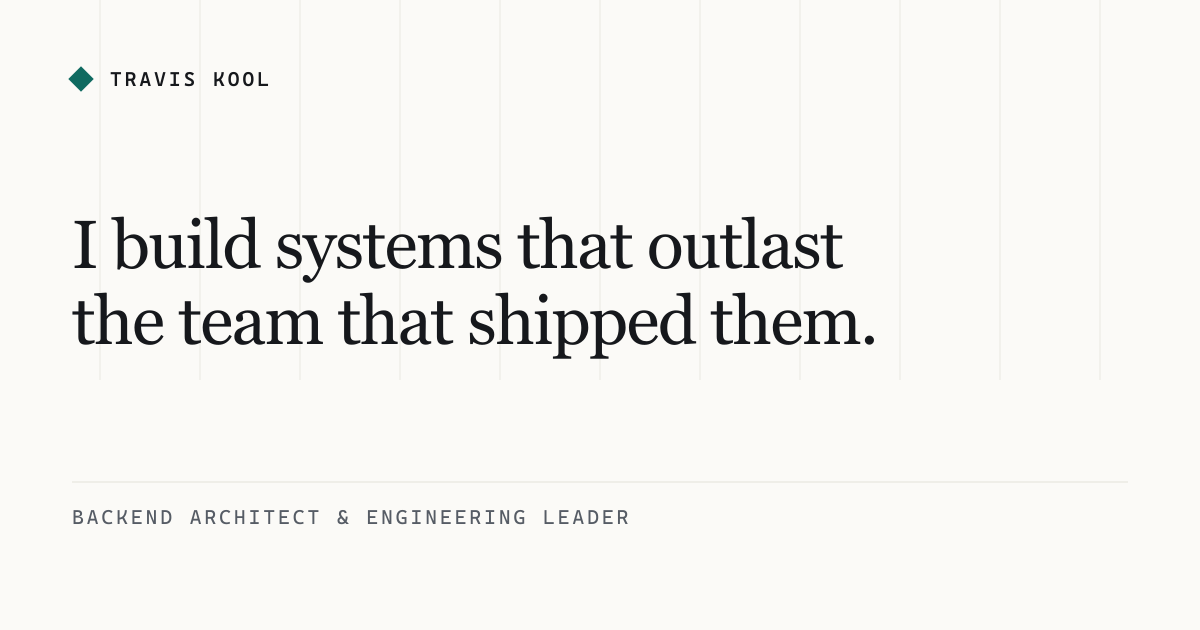
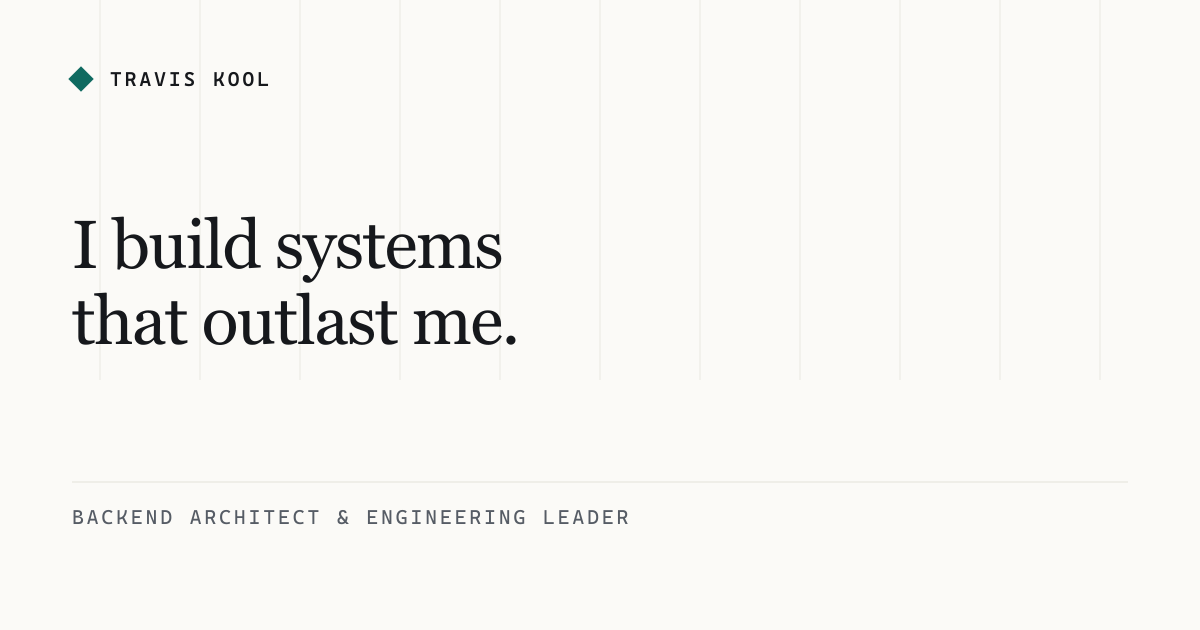
Reframe tagline to avoid implied comparison to teammates
"outlast the team that shipped them" split the sentence into the builder
and the mere shippers, and implied the team did not survive — a strange
note to sound given the M&A integration work in the timeline.

"outlast me" keeps the durability claim and the confidence while removing
the second party from the sentence entirely.

Also swap the 404 from "Off the sectional" to "Landed out" — sectional
charts are general aviation; landing out is the paragliding idiom.

Changed region(s): [[0.0925, 0.3317, 0.74, 0.573]]

diff --git a/src/data/site.ts b/src/data/site.ts
@@ -16,8 +16,16 @@ export const site = {
   /** Phrasing taken from your own LinkedIn summary. */
   role: 'Backend Architect & Engineering Leader',
 
-  /** The one-sentence version of you, in the hero. */
-  tagline: 'I build systems that outlast the team that shipped them.',
+  /**
+   * The one-sentence version of you, in the hero.
+   *
+   * Deliberately "outlast me" rather than "outlast the team that shipped
+   * them": the original split the sentence into the builder and the mere
+   * shippers, and implied the team did not survive — an odd note given the
+   * M&A integration work. Making yourself the thing being outlasted keeps the
+   * durability claim and drops the comparison to anyone else.
+   */
+  tagline: 'I build systems that outlast me.',
 
   /** Appears under the hero and as the default meta description. */
   intro:
